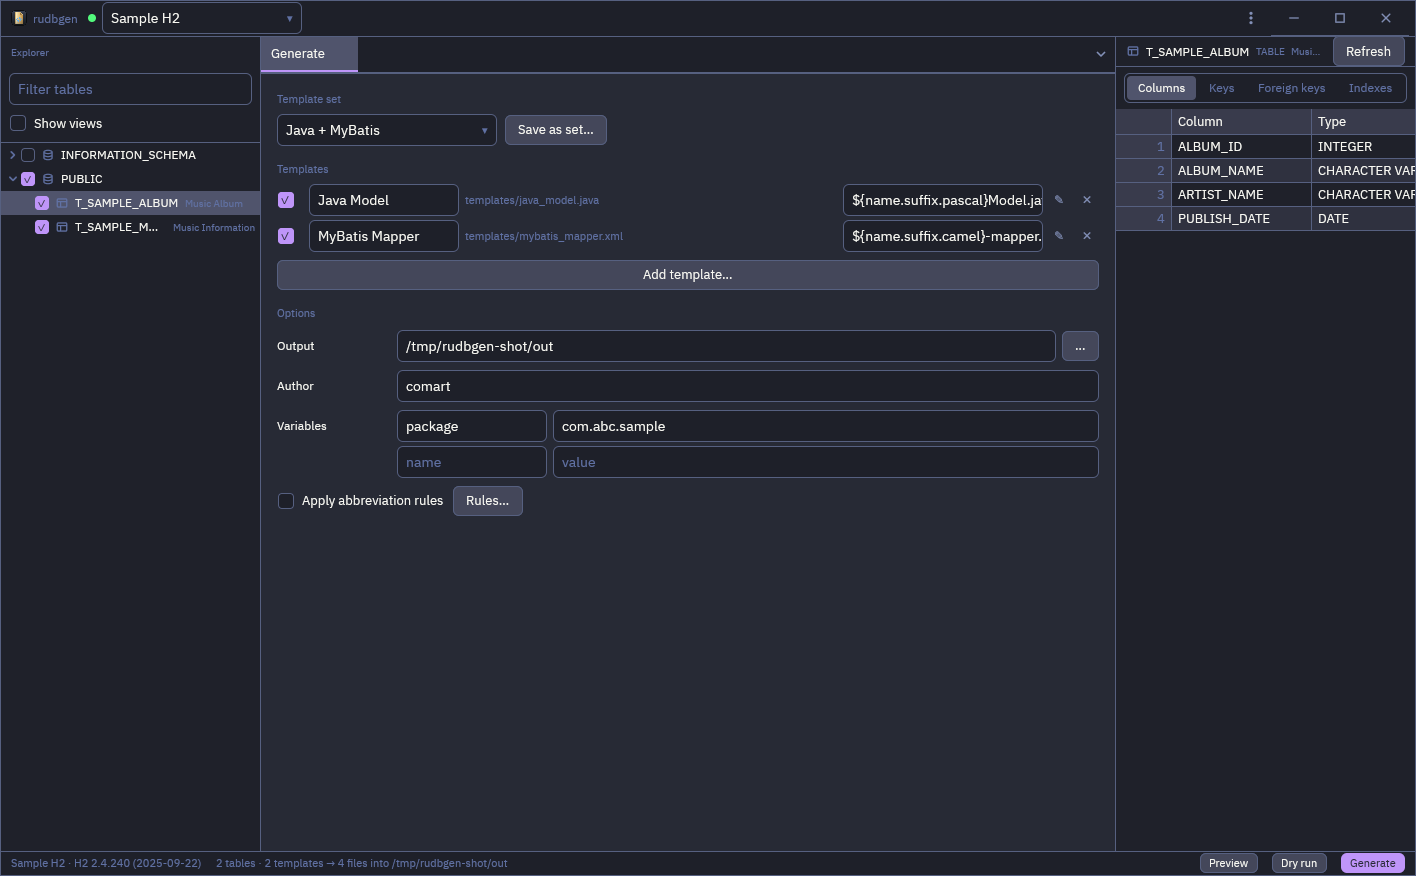
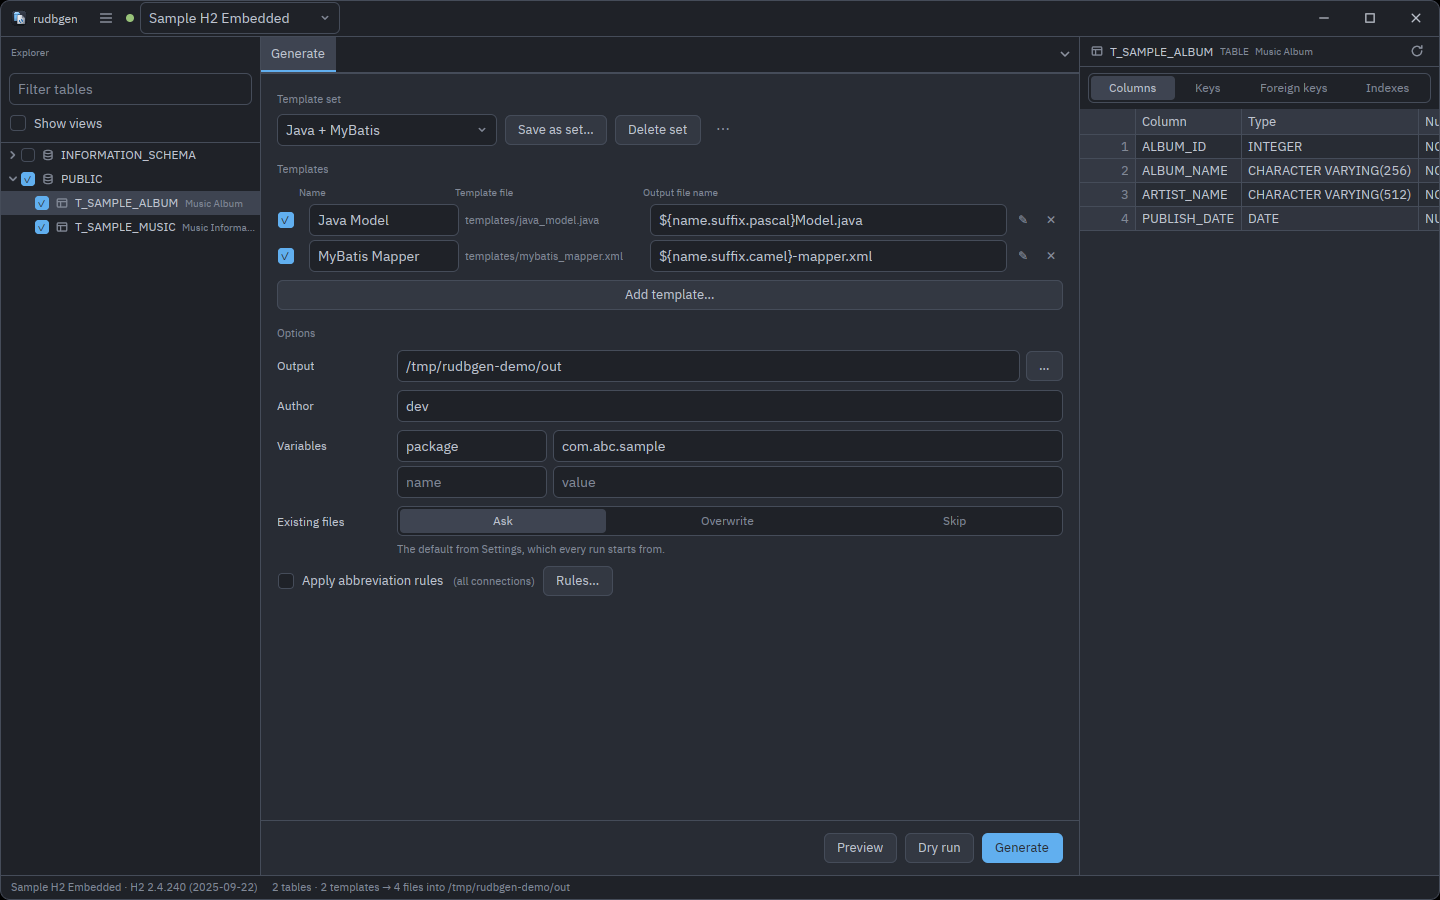
docs: retake screenshots and shorten the README feature list
All twelve screenshots are retaken from v0.2.7 at 1440x900 in the default
theme, with neutral demo paths and author. Captions and the window sketch in
the UI guide follow the new images.

The README lists each feature on one line, moves the inline screenshots into a
collapsible block, drops the pointer to the design documents from the
architecture section and names the third-party libraries.

diff --git a/README.md b/README.md
@@ -28,98 +28,35 @@ file per pair.
 
 ## What works today
 
-Written against jdbgen, because that is what most of this is for:
+- **One window** — a welcome screen lists saved connections; one click connects, with no stack of dialogs.
+- **Connection folders** — saved connections grouped into folders that fold away.
+- **No master password** — passwords and SSH passphrases live in the OS keychain, or are asked on every connect.
+- **Schema explorer** — a checkbox on every table, and the ticked set remembered per connection.
+- **Table inspector** — columns, primary key in key order, foreign keys both ways, and indexes.
+- **Richer template model** — foreign keys, indexes, precision, scale and auto-increment available to templates.
+- **Preview and dry run** — render one pair into a tab, or list every file a run would write.
+- **Cancellable runs** — templates checked before writing, overwrite prompts, atomic writes and a summary.
+- **Any JDBC driver** — downloaded from Maven Central or picked from disk, each in its own class loader.
+- **Custom metadata queries** — jdbgen's four queries, with a Test button that names a missing label.
+- **SSH tunnels** — agent, password or key auth through a bastion, `nologin` jump hosts included.
+- **Template editor** — highlighting, live preview against a table, unknown-field marks and completion.
+- **Portable template sets** — a set and its templates exported to one file and imported elsewhere.
+- **Abbreviation rules** — table and word rules in an editor, matched whatever the case.
+- **jdbgen import** — connections, drivers, template sets and rules read once from jdbgen's `config.json`.
+- **Themes and languages** — UI and editor themes with live preview, and eight interface languages.
 
-- **One window, and nothing to get past.** jdbgen opened a login dialog, then a
-  connection manager, then a generator window, each on top of the last. rudbgen
-  opens on a welcome screen listing your saved connections; one click connects,
-  and the explorer, the work area and the inspector are the same frame from then
-  on. Nothing modal stands between you and the first click.
-  ![The welcome screen](docs/screenshots/welcome.png)
-- **Connection folders.** Group saved connections by folder in the connection
-  dialog. Click a folder heading to collapse or expand it, or focus it with
-  <kbd>Tab</kbd> and press <kbd>Space</kbd> or <kbd>Enter</kbd>. Folded folders
-  stay folded when you reopen the dialog during the same app session.
-- **No master password.** jdbgen encrypted the URL, the user name and the
-  password with a master password you had to type at every start. rudbgen puts
-  the password — and an SSH key passphrase — in the operating system's own
-  keychain, and stores nothing secret on disk. There is nothing to remember and
-  nothing to lose — and where the keychain is not to be used, untick *Remember
-  password* and rudbgen asks for it on every connect.
-- **A schema explorer with a checkbox on every row.** Catalog → schema → table,
-  fetched lazily and opened on connect onto the database and schema the
-  connection landed in, with jdbgen's contains-filter over it and a views toggle. The
-  ticked set survives filtering, collapsing and refreshing, is kept with the
-  connection and ticked again the next time it opens — a table that has gone in
-  the meantime is unticked and named — and a schema's three-state box acts on
-  the rows you can actually see.
-- **A table inspector**: columns, the primary key **in key order**, foreign keys
-  in *both* directions, and indexes. jdbgen had a Table View modal and neither
-  foreign keys nor indexes at all.
-- **Foreign keys and indexes in the model the templates see.** `imports`,
-  `exports`, `indexes` on a table; `precision`, `scale`, `autoIncrement`,
-  `keySeq` and a single-column `fk` on a column. All new, all additions — every
-  field jdbgen had answers exactly as it did, but for `javaType`, which follows a
-  `DECIMAL`'s precision and scale (`Integer`, `Long` or `BigDecimal` where
-  jdbgen said `Integer` for all of them) and calls a `FLOAT` a `Double`.
-- **Preview before you write.** The status bar does the arithmetic — *n* tables ·
-  *m* templates → *n*×*m* files — **Preview** renders one pair into a tab, and
-  **Dry run** renders all of them without writing anything, listing every path,
-  whether it replaces something, and how big it would be.
-- **A cancellable run with a verdict.** Every template is parsed before any file
-  is written, so a syntax error costs nothing and names the template, the half
-  and the line. The run has a progress bar, a log and a Cancel that takes effect
-  at the next file boundary; an existing file asks Overwrite / Skip / Overwrite
-  all / Skip all / Cancel; and it ends in a summary of every file written,
-  skipped and failed, with a button to open the output directory. Files are
-  written atomically — a crash cannot truncate one.
-  ![The overwrite question, mid-run](docs/screenshots/overwrite.png)
-- **Any JDBC driver.** Drivers are downloaded from Maven Central by coordinate
-  or picked from disk, the driver class is detected from the JAR without running
-  a static initializer, and each set of driver JARs gets its own isolated class
-  loader.
-- **jdbgen's four custom queries, with a Test button.** For a driver whose
-  `DatabaseMetaData` is wrong or missing, supply your own SQL for the table list,
-  the column list and the two comment queries. Test runs the statement on a live
-  session and tells you *which required label is missing*, instead of letting you
-  discover it halfway through a run.
-  ![The driver editor's custom queries](docs/screenshots/driver-custom-queries.png)
-- **SSH tunnels** with SSH-agent, password or private-key auth, loopback binds
-  only, and no PTY on the bastion — `nologin` jump hosts work.
-- **Templates are documents, not file paths.** A template opens in a tab of its
-  own: the editor with template-language highlighting layered over the output
-  file's own language, a live preview that follows the *buffer* against a table
-  you pick, gutter marks for parse errors and for **unknown fields** — jdbgen's
-  way of finding a typo like `${nmae}` was to read the generated file — a
-  clickable variable palette of every field the model offers, and completion on
-  <kbd>Ctrl</kbd>+<kbd>Space</kbd> (or <kbd>Alt</kbd>+<kbd>/</kbd> where an input
-  method takes that). `${ENDIF}`, `${Else}` and the rest of the
-  block keywords work in any case, as every other statement name always did —
-  jdbgen took only lower case and silently read `${ELSE}` as a field.
-  ![The template editor with its live preview](docs/screenshots/template-editor.png)
-  ![Completion offering the model's fields, each with what it renders to](docs/screenshots/completion.png)
-- **Template sets travel as one file.** jdbgen's presets named template files
-  by path, which meant nothing on the next computer. *Export set…* writes a set
-  together with its templates' contents — and, if you like, the connection's
-  custom variables — into a single `*.rudbgen-set.json`; *Import set…* puts the
-  templates in a new folder of their own, never over an existing file, saves
-  the set and puts it on the list.
-- **An abbreviation rules editor.** The four-column table jdbgen kept in its
-  configuration window, with a trailing empty row, a table-name picker for
-  whole-name rules, and a refusal to save two rules that would silently become
-  one. Word rules now match **whatever the case**, a deliberate behavioral
-  break from jdbgen — where they only ever matched lower-case segments and so
-  never fired on `TB_USR`.
-  ![The abbreviation rules editor](docs/screenshots/abbreviations.png)
-- **A one-time import from jdbgen.** Point it at a `config.json`, type the
-  master password once, and it reads both of jdbgen's encryption formats, shows
-  what it found with a checkbox each, and writes your connections, drivers,
-  template sets and abbreviation rules — passwords into the OS keychain. Your
-  jdbgen configuration is opened read-only and left exactly as it was.
-  ![The import wizard's checklist](docs/screenshots/import.png)
-- **Themes and languages**: UI and editor theme registries with live preview,
-  import/export and a user theme directory; eight interface languages (en, ko,
-  ja, zh-CN, de, es, fr, ru), switched live.
+<details>
+<summary>More screenshots</summary>
+
+![The welcome screen](docs/screenshots/welcome.png)
+![The overwrite question, mid-run](docs/screenshots/overwrite.png)
+![The driver editor's custom queries](docs/screenshots/driver-custom-queries.png)
+![The template editor with its live preview](docs/screenshots/template-editor.png)
+![Completion offering the model's fields, each with a one-line description](docs/screenshots/completion.png)
+![The abbreviation rules editor](docs/screenshots/abbreviations.png)
+![The import wizard's checklist](docs/screenshots/import.png)
+
+</details>
 
 ## Installing
 
@@ -246,13 +183,6 @@ Git revision in the root Cargo manifest. Cargo fetches it automatically. The
 application keeps its own settings, keychain, Java bridge protocol and dialog
 layout; its SSH crate is a compatibility facade over the shared transport.
 
-
-The design document — the decisions, the crate layout, the JNI bridge, the
-template engine and its compatibility canary, the metadata model, the generation
-job and the milestone plan — lives in
-[docs/architecture.md](docs/architecture.md). Current progress and open items are
-tracked in [docs/status.md](docs/status.md).
-
 Everything rudbgen draws with comes from **rugpui** — the gpui widget kit, the
 virtualized grid, the code editor and **rugpui-shell**, the layer above them,
 extracted so that the three applications that had been carrying byte-identical
@@ -272,6 +202,53 @@ it for the live title-bar switch, three X11 fixes and a macOS 26 blur fix
 upstream has no answer for.
 The root [`Cargo.toml`](Cargo.toml) explains why the patch table here has to
 point at rugpui's copies rather than carry its own.
+
+### Third-party libraries
+
+The heavy lifting is done by these projects:
+
+| Library | Role |
+| --- | --- |
+| [gpui](https://github.com/zed-industries/zed/tree/main/crates/gpui) | GPU-accelerated UI framework, from the Zed editor (a pinned git revision, partly vendored and patched in rugpui) |
+| [jni](https://github.com/jni-rs/jni-rs) | Starts the embedded JVM and calls into the JDBC bridge |
+| [Gson](https://github.com/google/gson) | The bridge's one Java dependency: JSON for metadata and requests |
+| [russh](https://github.com/warp-tech/russh) | Pure-Rust SSH client behind the tunnels, through rudbkit |
+| [tokio](https://github.com/tokio-rs/tokio) | Async runtime for the SSH tunnel |
+| [keyring](https://github.com/open-source-cooperative/keyring-rs) | OS credential store: Windows Credential Manager, macOS Keychain, Secret Service |
+| [RustCrypto](https://github.com/RustCrypto) | `aes`, `aes-gcm`, `cbc`, `pbkdf2` and `sha2`: reading jdbgen's two encryption formats on import |
+| [directories](https://github.com/soc/directories-rs) | Per-platform configuration paths, and where jdbgen keeps its own |
+| [ureq](https://github.com/algesten/ureq) | The one HTTPS client: driver downloads from Maven Central, and the update check |
+
+Supporting crates:
+[serde](https://github.com/serde-rs/serde) /
+[serde_json](https://github.com/serde-rs/json) (connections, settings, template
+sets and the bridge's metadata),
+[uuid](https://github.com/uuid-rs/uuid) (connection and driver identity),
+[anyhow](https://github.com/dtolnay/anyhow) /
+[thiserror](https://github.com/dtolnay/thiserror) (errors),
+[log](https://github.com/rust-lang/log) /
+[env_logger](https://github.com/rust-cli/env_logger) (logging),
+[futures](https://github.com/rust-lang/futures-rs) /
+[async-trait](https://github.com/dtolnay/async-trait) (async glue),
+[parking_lot](https://github.com/Amanieu/parking_lot),
+[chrono](https://github.com/chronotope/chrono) (`${date}` formatting),
+[regex](https://github.com/rust-lang/regex) (the template language's
+`matches` conditions),
+[unicode-width](https://github.com/unicode-rs/unicode-width) (padding by display
+width),
+[base64](https://github.com/marshallpierce/rust-base64) /
+[zeroize](https://github.com/RustCrypto/utils/tree/master/zeroize) (jdbgen's
+encrypted values, and wiping the master password),
+[rust-i18n](https://github.com/longbridge/rust-i18n) /
+[sys-locale](https://github.com/1Password/sys-locale) (localization).
+
+Linux only: [secret-service](https://github.com/hwchen/secret-service-rs)
+(creating a default keyring when there is none). Windows only:
+[windows-rs](https://github.com/microsoft/windows-rs) (the parent console for
+`--version`), [winresource](https://github.com/BenjaminRi/winresource) (icon
+embedding). Tests additionally use [tempfile](https://github.com/Stebalien/tempfile),
+and [H2](https://github.com/h2database/h2database) and
+[JUnit](https://github.com/junit-team/junit5) on the bridge side.
 
 ## AI-assisted development
 

diff --git a/docs/status.md b/docs/status.md
@@ -274,8 +274,8 @@ shared halves from rugpui 877d8ac are wired in: the close guard on window close,
 quit and the update's restart; the modal dismiss guard and initial focus; `F10`
 and `Shift+F10` menus; middle-click tab close; toasts; the interface size as
 the UI scale; fitted form labels; and the template pickers starting in
-`<config>/templates`. The screenshots predate this
-round and were not recaptured: doing so needs the GUI on a display.
+`<config>/templates`. The screenshots were recaptured
+afterwards, on 2026-11-13, from v0.2.7.
 
 Decisions taken along the way, written down so they are not mistaken for
 oversights:
@@ -330,13 +330,15 @@ Two things a first tag will want that no milestone owns:
   key the shell's updater reads must agree; the release workflow's installer
   smoke test checks that an install leaves that key, but the round trip — install, then self-update — has only been walked on Linux.
 - The screenshots in `docs/screenshots/` are captures of the whole window
-  *surface*, which under client-side decorations carries a 12 px transparent
-  band for the drop shadow all round. Every one of them is now cropped to the
+  *surface*, which under client-side decorations carries a band for the drop
+  shadow all round (12 px at first; 36 px, grabbed as black, under the headless
+  KWin/Xwayland used for the 2026-11-13 set). Every one of them is now cropped to the
   window's own frame — the fully opaque part of an RGBA capture, which is
   exactly the window — and a new capture has to be cropped the same way, or a
   strip of whatever was behind the window composites into the edge. All twelve
   were re-taken together after M5 — in the **English** interface, where earlier
-  captures were of the Korean one — and every one now carries that crop,
+  captures were of the Korean one — and again on 2026-11-13 from v0.2.7, in
+  the default theme at 1440x900; every one now carries that crop,
   `connection-dialog.png` included, which used to owe it. `import.png` is staged
   from `crates/rudbgen-import/tests/vectors/config.json` (the synthetic fixture)
   rather than from a real jdbgen configuration, so its checklist has something

diff --git a/docs/ui-guide.md b/docs/ui-guide.md
@@ -137,7 +137,7 @@ handed to every connection that uses it.
 Once connected the window is three columns over a status bar:
 
 ```
-┌ [⌂ rudbgen] [☰] [● Sample H2 ▾]                              ─ □ ✕ ┐
+┌ [⌂ rudbgen] [☰] [● Sample H2 Embedded ▾]                     ─ □ ✕ ┐
 ├──────────────┬─────────────────────────────────┬─────────────────┤
 │ EXPLORER     │ WORK AREA (tabs)                │ INSPECTOR       │
 │ 🔍 filter    │ ┌ Generate ┐┌ Preview ┐         │ T_SAMPLE_ALBUM  │
@@ -147,7 +147,7 @@ Once connected the window is three columns over a status bar:
 │   ☑ T_ARTIST │ │  ☑ Mapper XML  ${…}-mapper.xml │ 2 NAME  VARCHAR  │
 │   ☐ T_TRACK  │ │  ☐ PHP CI      …               │ …               │
 │ ▸ INFO_SCHEMA│ │  Output   ~/out/src      [...]  │                 │
-│              │ │  Author   comart                │                 │
+│              │ │  Author   dev                   │                 │
 │              │ │  Variables  package=com.abc.x   │                 │
 │              │ │ [Preview] [Dry run] [Generate] │                 │
 ├──────────────┴─────────────────────────────────┴─────────────────┤
@@ -349,7 +349,7 @@ the right, and the [variable palette](#the-inspector) in place of the inspector.
 - <kbd>Ctrl</kbd>+<kbd>Shift</kbd>+<kbd>P</kbd> shows and hides the preview
   half.
 
-![Completion inside a statement](screenshots/completion.png)
+![Completion offering the model's fields at the caret](screenshots/completion.png)
 
 <kbd>Ctrl</kbd>+<kbd>Space</kbd> — and typing `${` — offers what may be written
 where the caret is: the statement names at the start of one, the option names
